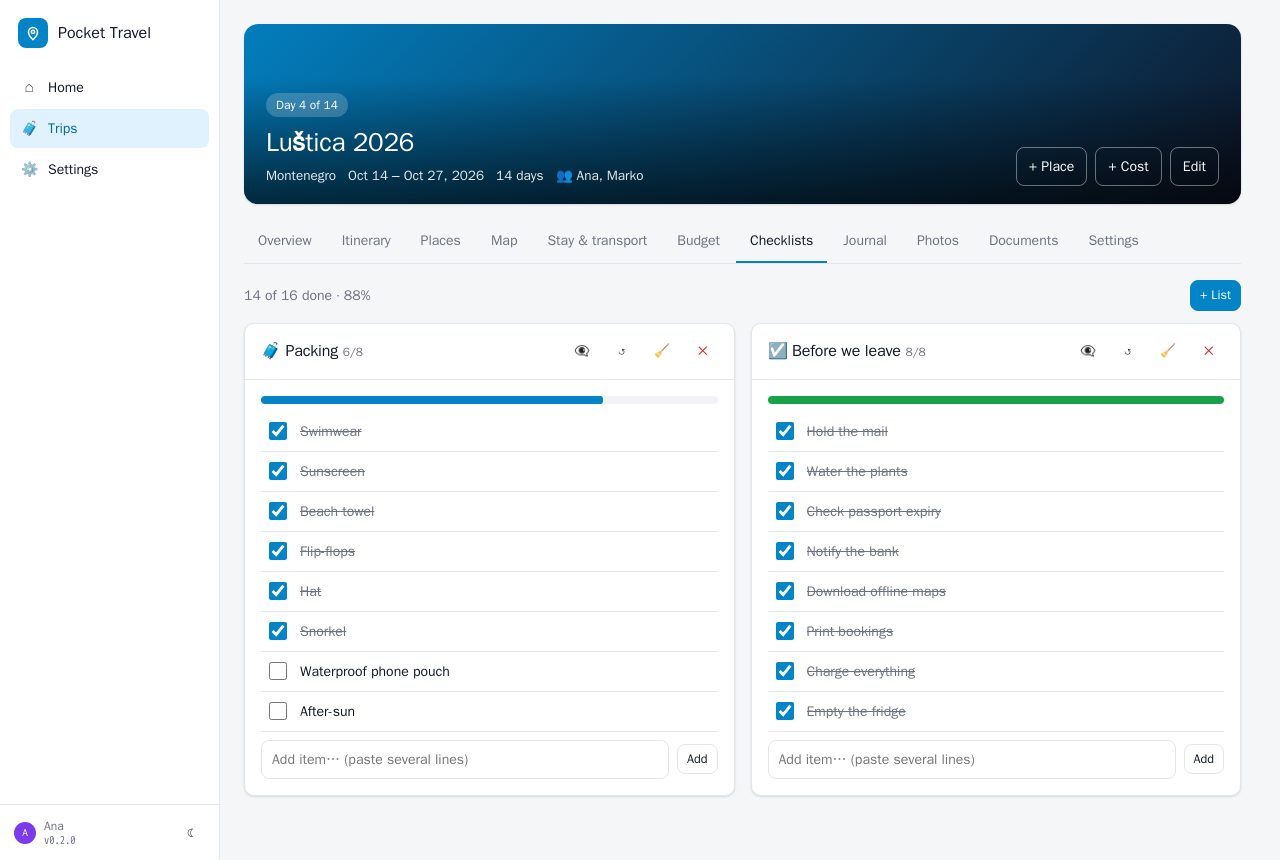
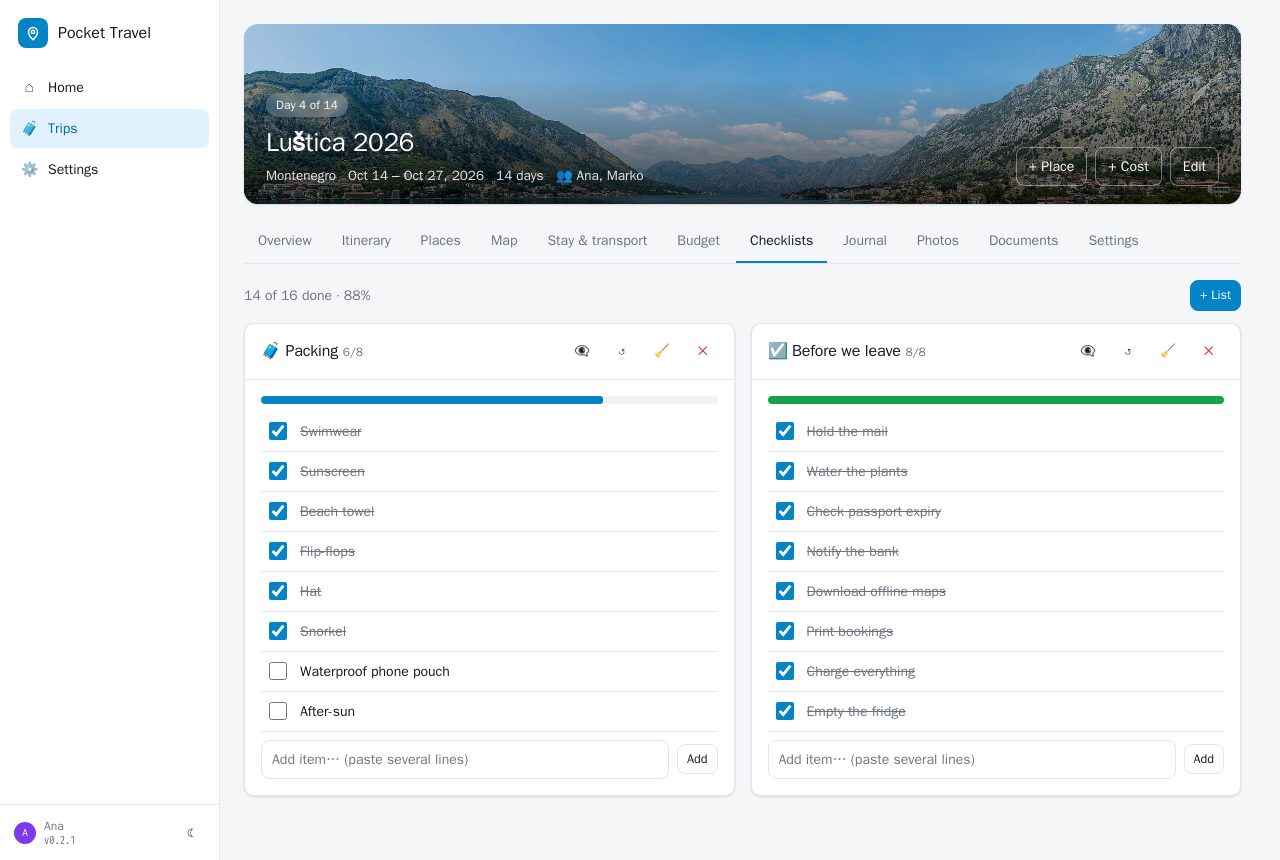
Screenshots with cover photos on the demo trips; trips page shot; photo credits

Changed region(s): [[0.1875, 0.0302, 0.9688, 0.2419]]

diff --git a/README.md b/README.md
@@ -50,11 +50,13 @@ With an OpenAI key (or any compatible endpoint) five more buttons appear: **sugg
   <sub>Installable PWA with a bottom tab bar, plus dark mode.</sub>
 </p>
 
+<p align="center"><img src="docs/screenshots/trips.png" width="900" alt="The trips page: one card per trip with the cover photo, dates, counts and the budget bar"></p>
+
 ## Features
 
 | Area | What you get |
 |---|---|
-| **Trips** | Dates, destination (geocoded), home currency, budget, colour and cover photo, status, notes. Owner / editor / viewer per companion. Archive, duplicate with shifted dates, delete. |
+| **Trips** | Dates, destination (geocoded), home currency, budget, colour and a cover photo for the banner (trip Settings → Upload cover), status, notes. Owner / editor / viewer per companion. Archive, duplicate with shifted dates, delete. |
 | **Itinerary** | Day rows with Open-Meteo weather (forecast 16 days ahead, archive for past days), drag and drop between days, start times and durations, visited ticks, check-in / check-out and transport legs inline, Dawarich journeys and stops per day. |
 | **Places** | Category, address, coordinates (search, click the map, or drag the pin), link, phone, price, rating, booking reference, tags, notes, photo. Status idea → planned → booked → visited / skipped. Nominatim search, Overpass *Discover nearby*, Wikipedia descriptions. |
 | **Stays & transport** | Hotels, apartments, camping…; flights, trains, buses, cars, ferries… with carrier, number, seat, booking reference, from/to with coordinates, distance. Prices become planned costs automatically. |
@@ -173,7 +175,7 @@ Requires Go 1.22+ and Node 20+. Stack: Go + chi + modernc SQLite (no CGO), and R
 
 ## Credits
 
-The shape of a trip — collections of places, lodging, transportation, notes and checklists — follows [AdventureLog](https://github.com/seanmorley15/AdventureLog), which this replaces for me by putting the plan next to the record. Maps © [OpenStreetMap](https://www.openstreetmap.org/copyright) contributors; place search by Nominatim, points of interest by Overpass, weather by [Open-Meteo](https://open-meteo.com), exchange rates by Frankfurter and open.er-api.com. Sibling projects built the same way are [Pocket Habits](https://github.com/abjelosevic88/pocket-homelab-habit-tracker), [Pocket Inventory](https://github.com/abjelosevic88/pocket-homelab-inventory), [Pocket Bookshelf](https://github.com/abjelosevic88/pocket-homelab-bookshelf), [Pocket Split](https://github.com/abjelosevic88/pocket-homelab-cost-split), [Pocket Clips](https://github.com/abjelosevic88/pocket-homelab-clips), [Pocket Subtitles](https://github.com/abjelosevic88/pocket-homelab-subtitles) and [Pocket Invoicing](https://github.com/abjelosevic88/pocket-homelab-invoicing).
+The shape of a trip — collections of places, lodging, transportation, notes and checklists — follows [AdventureLog](https://github.com/seanmorley15/AdventureLog), which this replaces for me by putting the plan next to the record. Maps © [OpenStreetMap](https://www.openstreetmap.org/copyright) contributors; place search by Nominatim, points of interest by Overpass, weather by [Open-Meteo](https://open-meteo.com), exchange rates by Frankfurter and open.er-api.com. The cover photos in the screenshots are from Wikimedia Commons: [Bay of Kotor Panorama](https://commons.wikimedia.org/wiki/File:Bay_of_Kotor_Panorama.jpg) by Fromaage (CC BY-SA 4.0), [Gloriette Schönbrunn Wien](https://commons.wikimedia.org/wiki/File:Gloriette_Sch%C3%B6nbrunn_Wien.jpg) by Der Wolf im Wald (CC BY-SA 3.0 de), [Lisbon Alfama](https://commons.wikimedia.org/wiki/File:Lisbon_Alfama_(53093264901).jpg) via Flickr (CC BY-SA 2.0). Sibling projects built the same way are [Pocket Habits](https://github.com/abjelosevic88/pocket-homelab-habit-tracker), [Pocket Inventory](https://github.com/abjelosevic88/pocket-homelab-inventory), [Pocket Bookshelf](https://github.com/abjelosevic88/pocket-homelab-bookshelf), [Pocket Split](https://github.com/abjelosevic88/pocket-homelab-cost-split), [Pocket Clips](https://github.com/abjelosevic88/pocket-homelab-clips), [Pocket Subtitles](https://github.com/abjelosevic88/pocket-homelab-subtitles) and [Pocket Invoicing](https://github.com/abjelosevic88/pocket-homelab-invoicing).
 
 ## License
 
